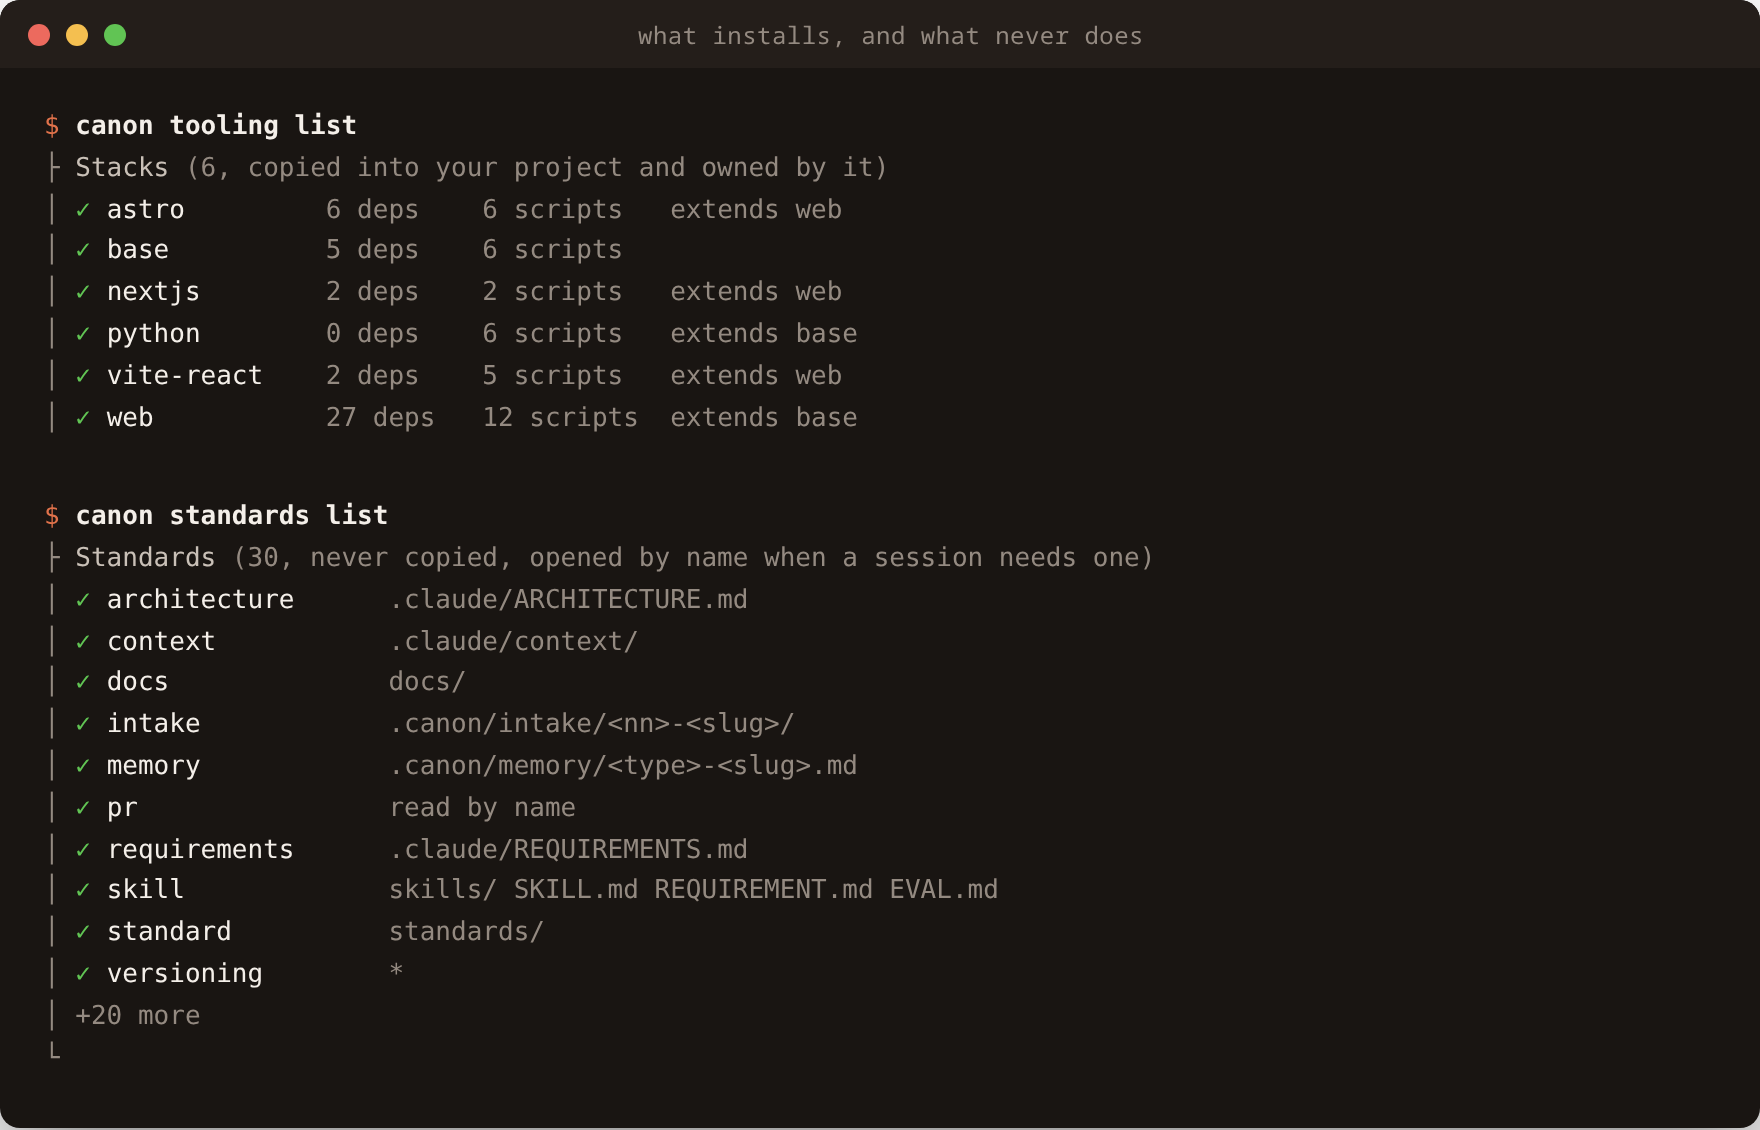
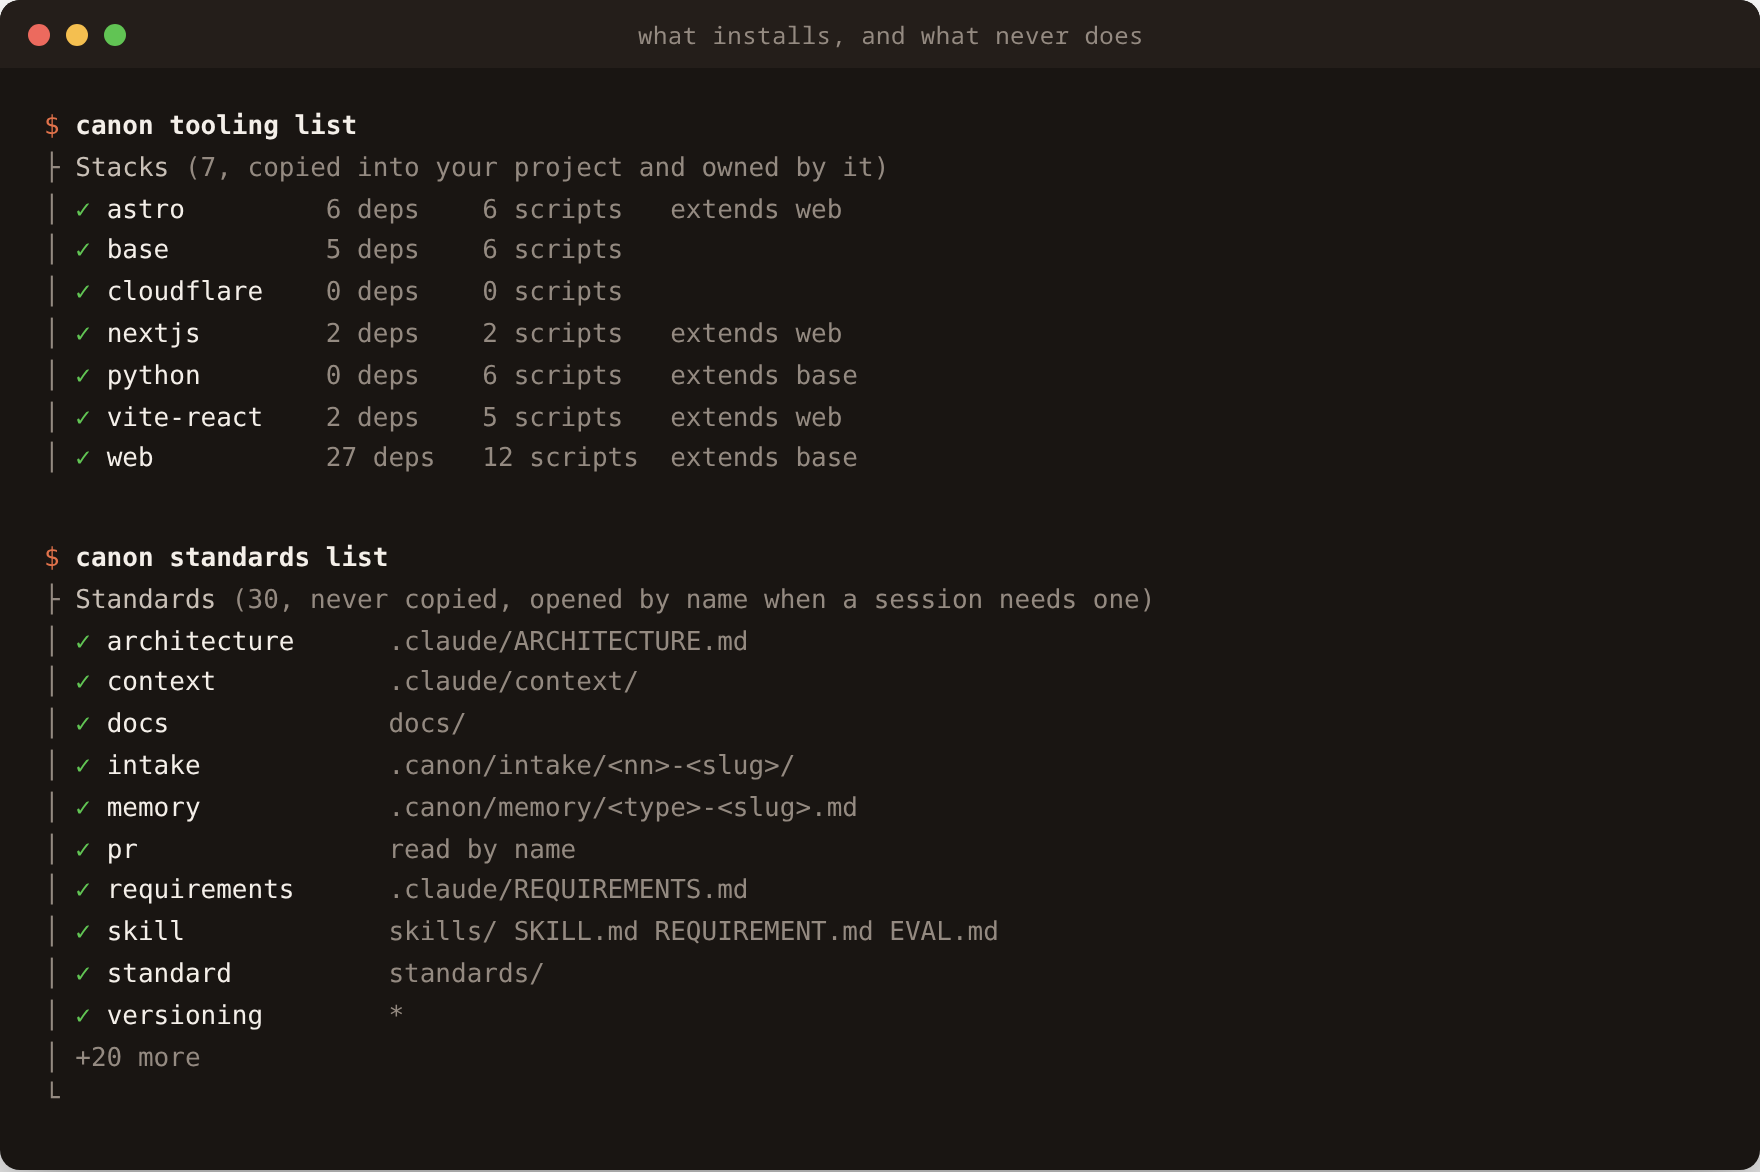
feat(deploy): add cloudflare stack and deploy-cloudflare skill
Converges three by-hand Cloudflare Pages deploys into one parameterized
workflow, a skill over wrangler and gh that holds the sequence across
its two human stops, and a wiki page for the two facts nothing else had
a slot for.

Claude-Session: https://claude.ai/code/session_013omMFQ7bMTVr3rr55dXu1z

Changed region(s): [[0.0312, 0.4336, 0.6562, 0.9292], [0.0312, 0.0929, 0.5, 0.4027]]

diff --git a/assets/captures/install-surface.html b/assets/captures/install-surface.html
@@ -191,9 +191,10 @@
         <span class="title">what installs, and what never does</span>
       </div>
       <pre><span class="prompt">$</span> <span class="cmd">canon tooling list</span>
-<span class="frame">├</span> Stacks <span class="muted">(6, copied into your project and owned by it)</span>
+<span class="frame">├</span> Stacks <span class="muted">(7, copied into your project and owned by it)</span>
 <span class="frame">│</span> <span class="ok">✓</span> <span class="name">astro         </span><span class="muted">6 deps    </span><span class="muted">6 scripts   </span><span class="muted">extends web</span>
 <span class="frame">│</span> <span class="ok">✓</span> <span class="name">base          </span><span class="muted">5 deps    </span><span class="muted">6 scripts   </span><span class="muted"></span>
+<span class="frame">│</span> <span class="ok">✓</span> <span class="name">cloudflare    </span><span class="muted">0 deps    </span><span class="muted">0 scripts   </span><span class="muted"></span>
 <span class="frame">│</span> <span class="ok">✓</span> <span class="name">nextjs        </span><span class="muted">2 deps    </span><span class="muted">2 scripts   </span><span class="muted">extends web</span>
 <span class="frame">│</span> <span class="ok">✓</span> <span class="name">python        </span><span class="muted">0 deps    </span><span class="muted">6 scripts   </span><span class="muted">extends base</span>
 <span class="frame">│</span> <span class="ok">✓</span> <span class="name">vite-react    </span><span class="muted">2 deps    </span><span class="muted">5 scripts   </span><span class="muted">extends web</span>

diff --git a/assets/captures/hero.html b/assets/captures/hero.html
@@ -277,7 +277,7 @@
         <div class="cols">
           <div class="col">
             <div class="col-head">
-              <span class="col-name">skills</span><span class="col-count">78</span>
+              <span class="col-name">skills</span><span class="col-count">79</span>
             </div>
             <div class="col-dest">via the plugin</div>
             <div class="entry">plan-feature</div>
@@ -290,7 +290,7 @@
             <div class="entry">git-ship</div>
             <div class="entry">setup-init</div>
             <div class="entry">systematic-debugging</div>
-            <div class="more">+68 more</div>
+            <div class="more">+69 more</div>
           </div>
 
           <div class="col">
@@ -335,7 +335,7 @@
         <span><b>41</b>CLI commands</span>
         <span><b>11</b>snippets</span>
         <span><b>7</b>governance stacks</span>
-        <span><b>6</b>tooling stacks</span>
+        <span><b>7</b>tooling stacks</span>
         <span class="note">counts read from the catalogs at build time</span>
       </div>
     </div>

diff --git a/src/claude/cases/misc.ts b/src/claude/cases/misc.ts
@@ -47,4 +47,8 @@ export const MISC_CASES: readonly SkillCase[] = [
     prompt: 'Is there a page anywhere in this repo that covers retries?',
     expect: 'index-lookup',
   },
+  {
+    prompt: 'Connect this repo to Cloudflare Pages and set up the deploy.',
+    expect: 'deploy-cloudflare',
+  },
 ]

diff --git a/.claude/context/tooling.md b/.claude/context/tooling.md
@@ -26,6 +26,7 @@ Owns the golden configs a project inherits, layered across a `base` to `web` to 
 | `astro`      | web     | Framework glue: astro.config, getViteConfig vitest, astro-aware eslint    |
 | `nextjs`     | web     | Framework glue: next.config, plain-defineConfig vitest, App Router eslint |
 | `python`     | base    | `uv` runtime plus ruff, mypy, pytest, and coverage sidecars               |
+| `cloudflare` | -       | Parameterized Cloudflare Pages deploy workflow, no deps or scripts        |
 
 ## Decisions
 
@@ -55,7 +56,7 @@ Owns the golden configs a project inherits, layered across a `base` to `web` to 
 - A first commit to `evidence/` is conditional on running the capture twice with no code change between the runs and confirming byte-identical output, since cross-restart determinism is unmeasured and the two-run check is what catches a flaky render locally before it reaches the pull request.
 - `governance/rules/ui/440-surface-capture.md` now fires on every component file, reversing the route-and-page-only scope this entry once recorded. `#1505` shipped seven new component files with no capture attached, and a real defect went unseen inside them. Wide globs with the discrimination moved into the rule body, the alternative this entry once rejected, is the route the widened rule takes: a component the production build strips out, such as a dev-only scaffold switcher, carries its own exemption in the rule body rather than sitting outside a narrower glob. The four sibling rules in that folder still scope by file extension alone. This one keys on a path and states its exemption beside it. The accepted cost moves rather than closing: a component that ships to production and renders no surface of its own, a provider or a layout wrapper, now fires the rule too, since the exemption above reaches only what the build strips out. Measured at `64a4297b` on 2026-09-07.
 - References shrank to anti-patterns and opinions once golden configs landed. The config is the source, the reference carries only what a config cannot express.
-- Stacks do not compose horizontally. Single-root polyglot is unsupported, and a monorepo uses the subfolder pattern instead.
+- Stacks do not compose horizontally in the sense of two `extends` chains resolving at one root in a single `sync` call. Single-root polyglot in that sense is unsupported, and a monorepo uses the subfolder pattern instead. A second, orthogonal stack synced onto the same root as an existing chain is a different case and works today: `cloudflare` sets `extends = ""` and ships one config file with no dependency or gitignore entries, so a second `canon tooling sync cloudflare . --write` call at a root already carrying `astro` or `vite-react` collides with nothing in that chain. The unsupported case is one `sync` call resolving two `extends` chains at once, not two independent `sync` invocations for two unrelated concerns.
 - `tooling/claude/` is storage, not a stack. It holds seeds, user-level config, and a minimal manifest consumed only by the `canon claude` CLI, so `TOOLING_STACK_EXCLUDE` keeps it out of discovery.
 - The non-goal against shipping application code turns on the word application, and its own carve-out in `.claude/REQUIREMENTS.md` already reads configs, seeds, snippets, and rules
 - Test files, an e2e spec, the screenshot template, and six shell scripts land executable non-config source in a target, and `injectManifest` in `src/tooling/inject.ts` runs `bun add -D` against it. The non-goal's build-exclusion carve-out is what covers this class: each of the four already-shipped test-infrastructure files proves out under it, since none reaches a target's production build.

diff --git a/claude/skills/deploy-cloudflare/SKILL.md b/claude/skills/deploy-cloudflare/SKILL.md
@@ -1,0 +1,61 @@
+---
+name: deploy-cloudflare
+description: Sets up a Cloudflare Pages deploy for the current project by creating the Pages project, fetching the account ID, and stopping twice for the operator to issue the API token and attach the custom domain. Calls `wrangler` and `gh` rather than reimplementing them. Use when asked to "set up Cloudflare deploy", "deploy this to Cloudflare Pages", "set up the Pages project", or "connect this repo to Cloudflare". Do NOT use to run an already-configured deploy, which the seeded workflow does on push, or to reconfigure an existing Pages project's build settings.
+---
+
+# Deploy Cloudflare
+
+Runs the one-time setup a Cloudflare Pages deploy needs before the seeded `deploy.yml` workflow can run, stopping twice for the two acts only the operator can take.
+
+## Guards
+
+- If `wrangler whoami` fails, stop: `❌ wrangler is not authenticated. Run wrangler login, then re-invoke.`
+- If `gh auth status` fails, stop: `❌ gh is not authenticated. Run gh auth login, then re-invoke.`
+- Never accept a Cloudflare API token as input, in a prompt, an argument, or a file. Verify a secret's presence with `gh secret list` rather than asking for or reading its content.
+- Never reimplement `wrangler pages project create` or `gh secret set` as a hand-built HTTP call. Call the tools directly.
+- If the project name is not supplied, derive it from the repository's own name (`basename` of `git remote get-url origin`, stripped of a trailing `.git`) and confirm it in the preview rather than asking first.
+
+## Step 1: create the Pages project
+
+```bash
+wrangler pages project create <project-name>
+```
+
+Report the command's own failure output and stop rather than retrying on a name collision. A project already existing under that name is the operator's to resolve.
+
+## Step 2: fetch and set the account ID
+
+Fetch the account ID from `wrangler`'s own authenticated session rather than asking the operator to copy it from the dashboard. The dashboard displays the account ID truncated, and a value copied from there fails the deploy silently:
+
+```bash
+wrangler whoami
+```
+
+Parse the account ID from that output and pipe it into the secret rather than printing it to the transcript first:
+
+```bash
+echo "<account-id>" | gh secret set CLOUDFLARE_ACCOUNT_ID
+```
+
+## Step 3: stop for the API token
+
+Stop: `⏸ Create a Cloudflare API token with Pages edit permission at the Cloudflare dashboard, then run: gh secret set CLOUDFLARE_API_TOKEN. Re-invoke this skill once that's done.`
+
+This is the one credential the skill never touches. Resume only once the operator confirms the token is set.
+
+## Step 4: verify both secrets
+
+```bash
+gh secret list
+```
+
+- Both `CLOUDFLARE_ACCOUNT_ID` and `CLOUDFLARE_API_TOKEN` present: continue.
+- Either missing: stop and name which one, with the command that sets it.
+
+## Step 5: stop for the custom domain
+
+Stop: `⏸ Attach the custom domain to the <project-name> Pages project in the Cloudflare dashboard, then confirm here. Whether this can run through the API instead of the dashboard is out of scope for this skill, per its REQUIREMENT.md.`
+
+## Step 6: hand off
+
+Report that setup is complete and name the seeded workflow (`tooling/cloudflare/configs/.github/workflows/deploy.yml`, synced via `canon tooling sync cloudflare . --write`) as what deploys on the next push. Do not invoke `git-pr` or `git-ship` from here. The operator or the controlling session decides when to open that pull request.

diff --git a/tooling/cloudflare/reference.md b/tooling/cloudflare/reference.md
@@ -1,0 +1,24 @@
+# Tooling cloudflare reference
+
+## Overview
+
+The cloudflare stack ships one parameterized GitHub Actions workflow that deploys a static build to Cloudflare Pages. It is keyed on host rather than on framework and carries no dependencies, seeds, or scripts of its own, so it syncs onto a project already carrying `astro`, `vite-react`, or any other stack at the same root without colliding.
+
+## Deploy workflow
+
+- Separate `build` and `deploy` jobs, connected by an uploaded artifact, converged on the shape already running in the closest prior art rather than invented fresh.
+- The deploy job checks for `CLOUDFLARE_API_TOKEN` and `CLOUDFLARE_ACCOUNT_ID` before doing anything else, and skips with a `::notice::` rather than failing when either is absent. A first merge lands ahead of the Pages project existing, and this guard is what keeps that push green.
+- `--branch=${{ github.ref_name }}` on every deploy, which gives every branch a Cloudflare preview URL rather than only `main`.
+- The deploy job checks out the repository and installs Bun even though it builds nothing. `wrangler-action` resolves its package manager from `bun.lock` in the checkout, and dropping that step breaks the deploy on every push once the toolchain it relies on silently goes missing.
+
+## Parameters a project fills in by hand
+
+Three values in the seeded file have no generic default and are set once, right after sync:
+
+- The `paths:` filter under the `push` trigger. The shipped default is a single `src/**` glob. Widen it to cover every path the build reads when the build draws on catalogs or generated content living outside `src/`.
+- The `concurrency.group` name. The shipped default is the bare string `deploy`, which is enough for a single-deploy project. Give it a project-specific name only if the project runs more than one deploy workflow.
+- The `--project-name` flag on the `wrangler pages deploy` command. Set it to the name the `deploy-cloudflare` skill creates the Pages project under.
+
+## Re-sync
+
+`configs/` is golden and always overwrites. Re-running `canon tooling sync cloudflare . --write` after hand-editing any of the three parameters above discards that edit and restores the shipped defaults. Re-fill the parameters after any re-sync rather than expecting the file to preserve them.

diff --git a/claude/skills/deploy-cloudflare/REQUIREMENT.md b/claude/skills/deploy-cloudflare/REQUIREMENT.md
@@ -1,0 +1,37 @@
+---
+name: deploy-cloudflare
+description: What the Cloudflare Pages setup gap is, which of the four manual steps this skill closes, and why the credential and the custom domain stay the operator's
+---
+
+# Deploy Cloudflare requirement
+
+## Gap
+
+Without this skill, a Cloudflare Pages setup is a sequence performed from memory. Three of its four repeated acts touch a service rather than the tree, so no workflow file can absorb them, and one of the acts has already cost a broken deploy: the account ID displayed in the Cloudflare dashboard is truncated, and a value copied from there is wrong in a way that only shows up at deploy time.
+
+## Must
+
+- Create the Pages project through `wrangler pages project create`
+- Fetch the account ID from `wrangler`'s own authenticated session rather than have it typed or pasted
+- Stop for the operator to issue the API token and run `gh secret set CLOUDFLARE_API_TOKEN` themselves
+- Verify both secrets are present with `gh secret list` before continuing
+- Stop for the operator to attach the custom domain in the dashboard
+- Call `wrangler` and `gh` directly for every step those tools already cover
+
+## Must not
+
+- Accept a Cloudflare API token as input in any form. The toolkit verifies a secret exists, never what it contains.
+- Reimplement `wrangler pages project create` or `gh secret set` as a hand-built API call
+- Open a pull request or merge
+
+## Guards
+
+- `wrangler` not authenticated: stop and name the login command
+- `gh` not authenticated: stop and name the login command
+- A secret missing after the token stop: stop and name which one
+
+## Out of scope
+
+- Attaching a custom domain through the Cloudflare REST API instead of the dashboard. Measured absent from `wrangler pages` at plan time and the REST API was not read, so the dashboard stop stays for this pass.
+- Running the deploy itself once secrets and the domain are set. That is the seeded `tooling/cloudflare/configs/.github/workflows/deploy.yml` workflow, triggered by a push to main.
+- Reconfiguring an existing Pages project's build settings.

diff --git a/wiki/tools/cloudflare.md b/wiki/tools/cloudflare.md
@@ -1,0 +1,16 @@
+---
+title: Cloudflare Pages
+description: The truncated account ID quirk and the build-free toolchain requirement that broke a deploy once and cost two comments to explain
+---
+
+# Cloudflare Pages
+
+Cloudflare Pages deploys a static site from a GitHub Actions workflow through `wrangler pages deploy`. Two facts about that setup have each cost a broken deploy to learn, and neither lives anywhere a project reads before repeating the mistake. Source: Cloudflare, and separately the `wrangler-action` maintainer for the toolchain behavior below.
+
+## The account ID is truncated in the dashboard
+
+The Cloudflare dashboard displays the account ID in a shortened form. Copying the visible text pastes a truncated value into `CLOUDFLARE_ACCOUNT_ID`, and the deploy fails against a value that looks plausible. Copy the ID with the dashboard's copy button rather than selecting the displayed text by hand.
+
+## A deploy job that builds nothing still needs a toolchain
+
+`wrangler-action` resolves its package manager from the checkout it runs in. It reads `bun.lock`, picks Bun on the strength of it, and installs `wrangler` through that. A deploy job that only uploads a prebuilt artifact still needs Bun on `PATH` for this reason, even though the job itself runs no build step. Dropping the checkout and toolchain setup as apparent dead weight has broken a deploy on every subsequent push.

diff --git a/wiki/tools/index.md b/wiki/tools/index.md
@@ -8,6 +8,7 @@ subtitle: Design products, editor and browser extensions, MCP servers, and commu
 Design products, editor and browser extensions, MCP servers, and community catalogs, one page per subject another vendor owns
 
 - [Caret](caret.md): Chrome prompt library that inserts saved prompts into Claude, Gemini, and ChatGPT chat inputs from a keyboard picker
+- [Cloudflare Pages](cloudflare.md): The truncated account ID quirk and the build-free toolchain requirement that broke a deploy once and cost two comments to explain
 - [Community MCP servers](community-mcp-servers.md): Curated list of MCP servers with rankings and install notes
 - [Community skills and plugins](community-skills.md): Notable third-party skills, official Anthropic plugins, and curated lists
 - [Stackr](stackr.md): VS Code extension that stages files into a named context stack and copies them as one formatted payload

diff --git a/claude/skills/canon-cli/SKILL.md b/claude/skills/canon-cli/SKILL.md
@@ -62,6 +62,10 @@ Run `canon tooling sync <stack> <target> --check` for the list resolved against 
 - `commitlint.config.js`
 - `scripts/verify.sh`
 
+### cloudflare
+
+- `.github/workflows/deploy.yml`
+
 ### nextjs
 
 - `eslint.config.js`
